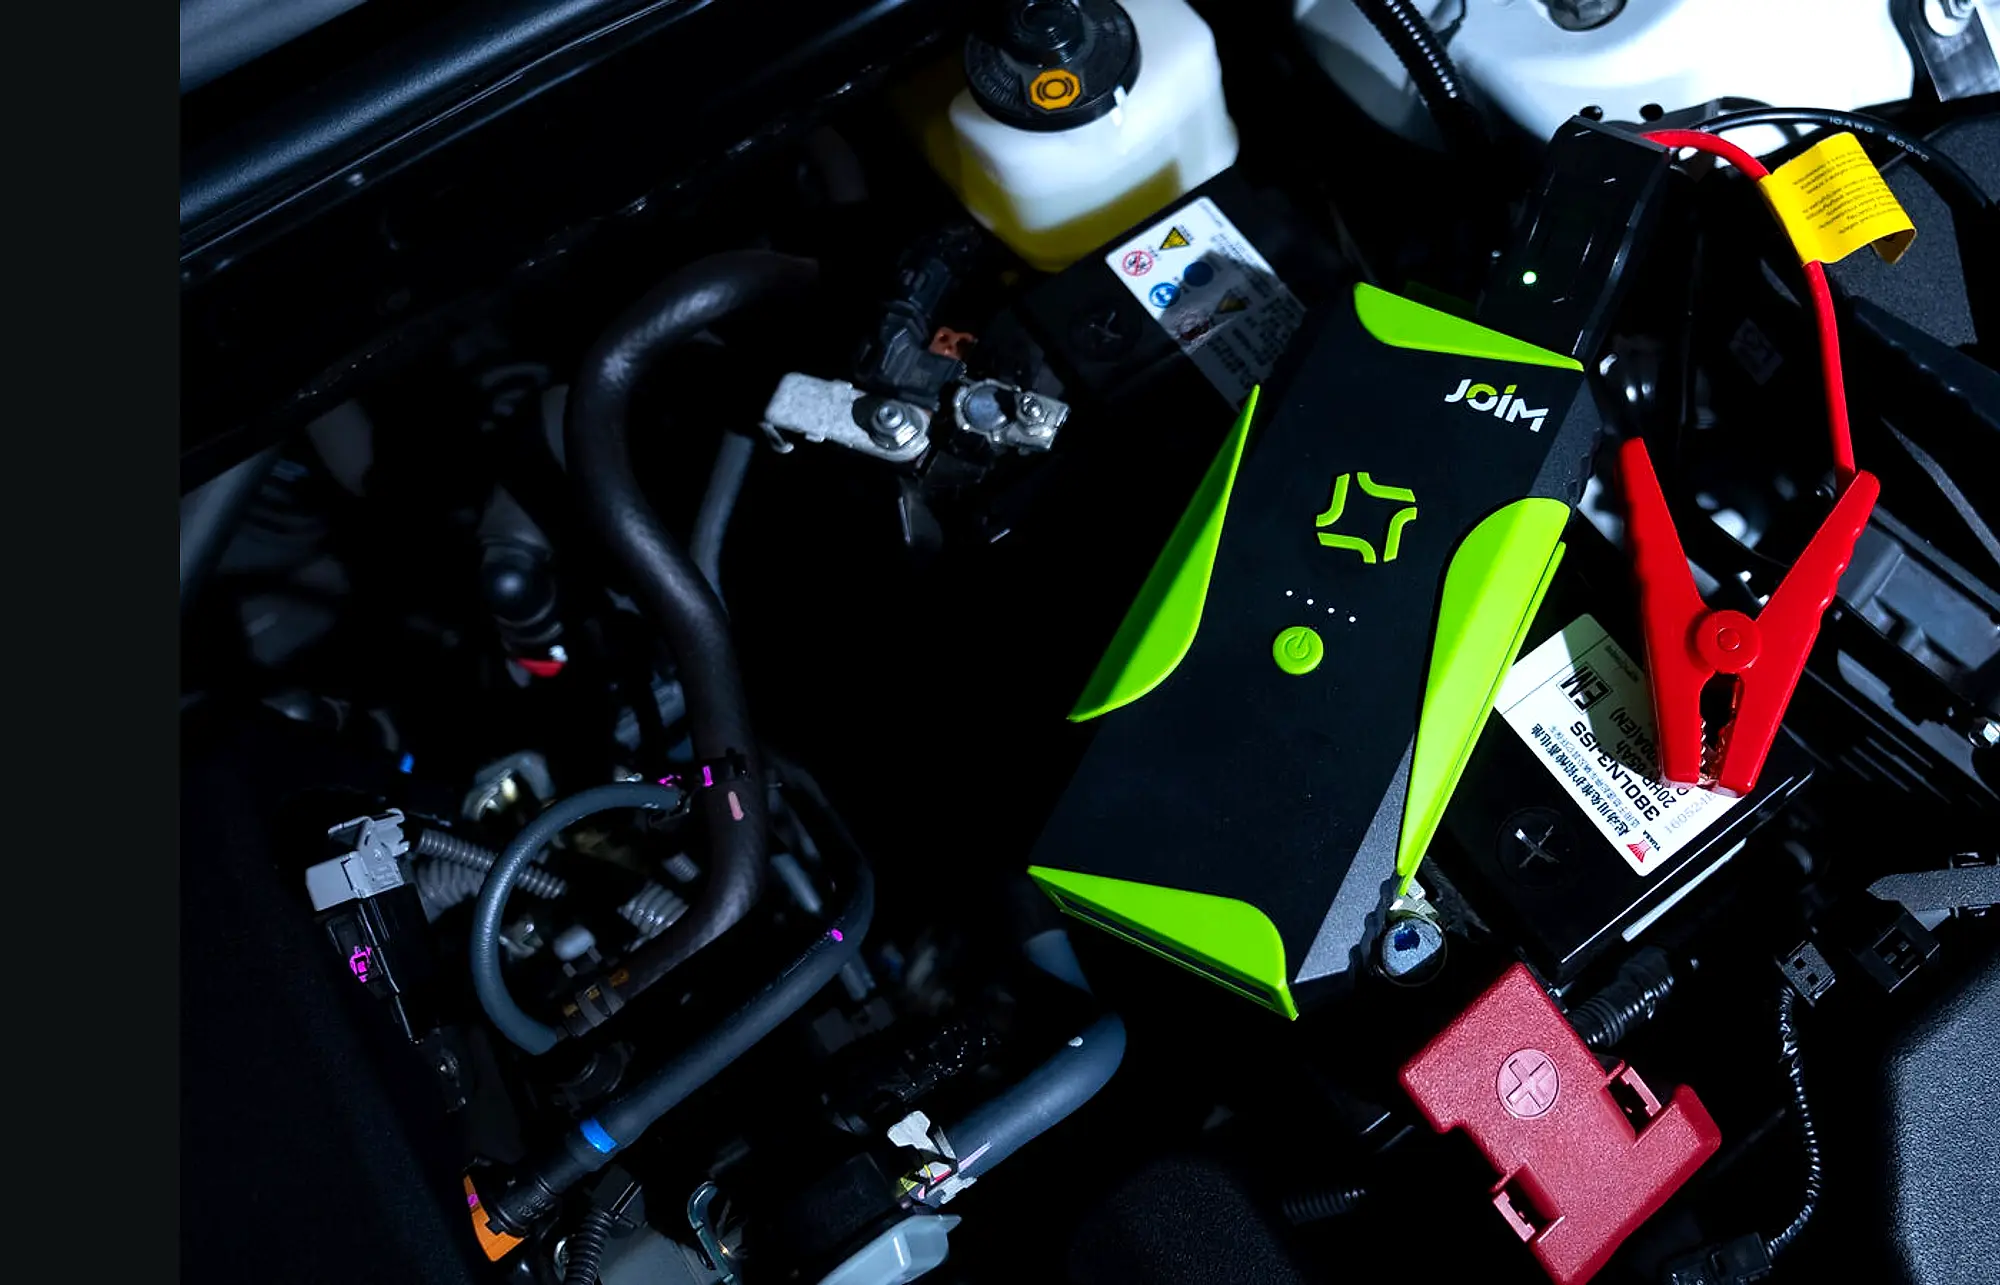
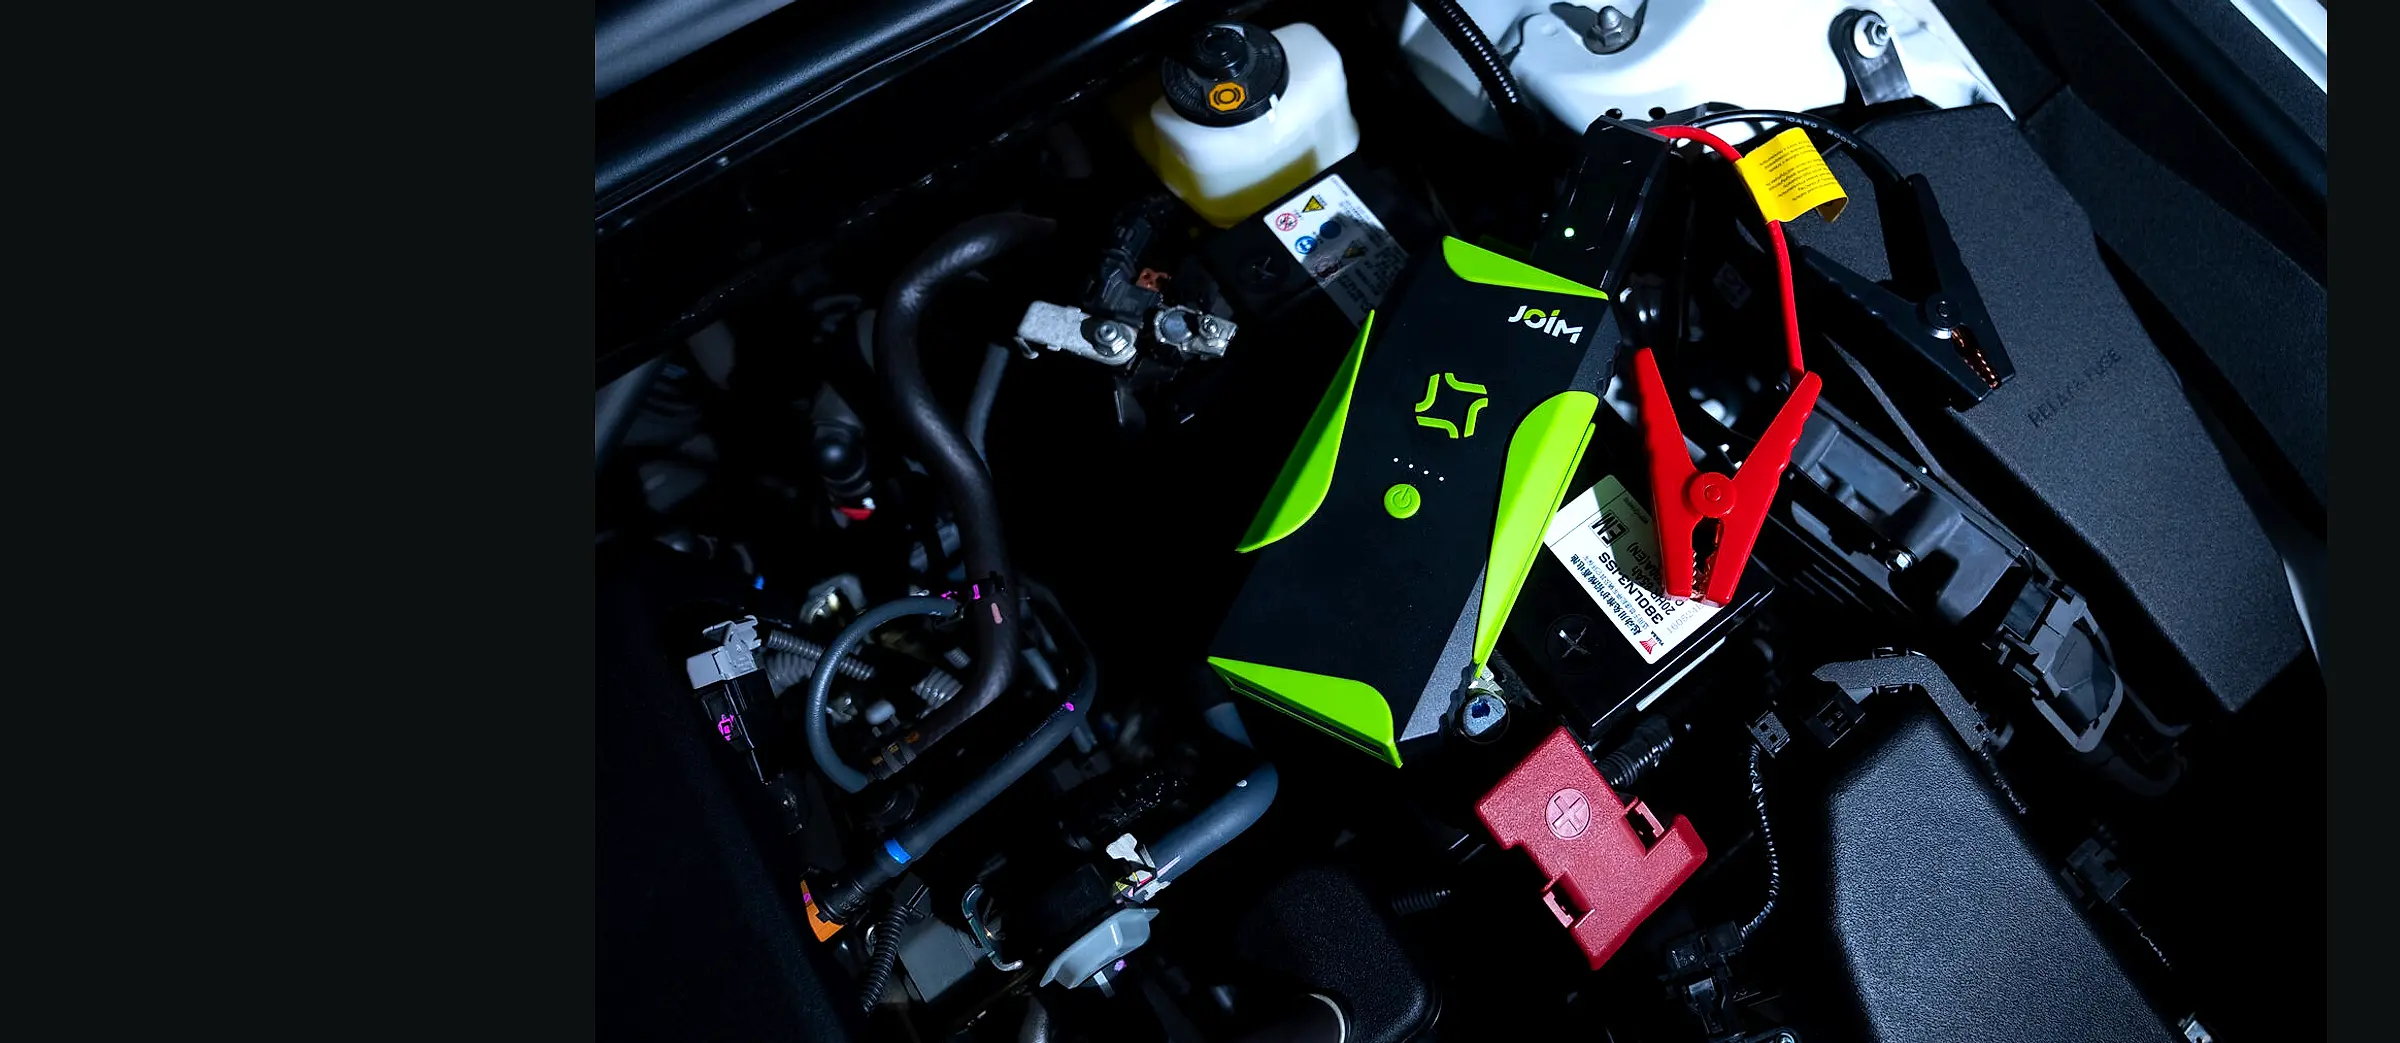
Прибор в hero перестал расти вместе с шириной окна
Кадр переснят с полями по бокам и пропорцией 2,3: cover считает его
по высоте, а она постоянная. Прибор теперь 440 px на любой ширине
и стоит на «середина экрана + 193 px» — в просвете между заголовком
и карточками показаний и на 1280, и на 1440, и на 1912.

diff --git a/components/sections/Hero.tsx b/components/sections/Hero.tsx
@@ -59,7 +59,7 @@ export function Hero() {
           fill
           preload
           sizes="100vw"
-          className="object-cover object-[66%_46%]"
+          className="object-cover object-[64%_50%] lg:object-[50%_50%]"
         />
         {/* Диагональная завеса рассчитана на широкий экран: слева плотно
             под текст, справа открыто под предмет. На телефоне колонка одна
@@ -72,12 +72,13 @@ export function Hero() {
         {/* Акцент на приборе. Затемняем всё, кроме пятна над ним:
             прибор остаётся в своей яркости, а окружение уходит вниз —
             так «ярче» получается без осветления, от которого кадр
-            выцветает. Центр — 66% ширины и половина высоты: туда прибор
-            посажен кадрированием, ровно в просвет между заголовком
-            и карточками показаний. */}
-        <div className="absolute inset-0 hidden bg-[radial-gradient(40%_48%_at_66%_50%,transparent_0%,rgba(17,19,19,0.2)_44%,rgba(17,19,19,0.62)_100%)] lg:block" />
+            выцветает. Центр — 63% ширины: прибор стоит на 65% при 1280,
+            на 63% при 1440 и на 60% при 1912 — кадр держится за середину
+            экрана, а не за его край. Радиус взят с запасом, чтобы накрыть
+            весь этот разброс. */}
+        <div className="absolute inset-0 hidden bg-[radial-gradient(44%_50%_at_63%_48%,transparent_0%,rgba(17,19,19,0.2)_44%,rgba(17,19,19,0.62)_100%)] lg:block" />
         {/* И немного света сверху — блик по корпусу, а не подсветка */}
-        <div className="absolute inset-0 hidden mix-blend-screen bg-[radial-gradient(25%_29%_at_66%_48%,rgba(255,255,255,0.14),transparent_72%)] lg:block" />
+        <div className="absolute inset-0 hidden mix-blend-screen bg-[radial-gradient(30%_32%_at_63%_46%,rgba(255,255,255,0.14),transparent_72%)] lg:block" />
       </div>
 
       {/* Фирменные линии поверх кадра — тише, чем на пустом фоне */}
